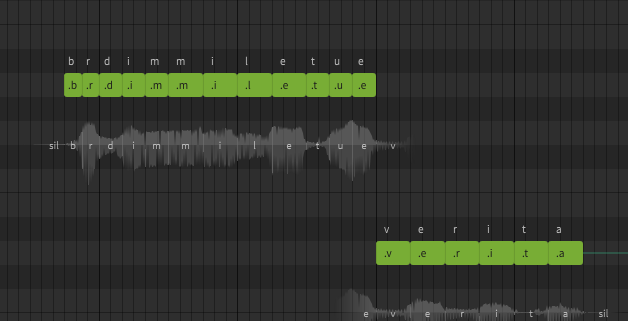
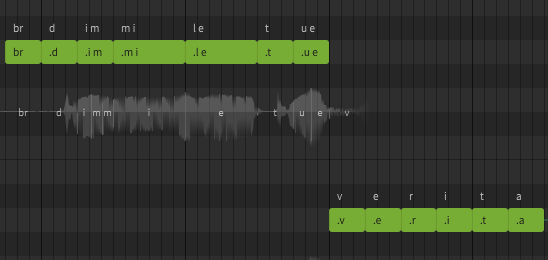
Updated README images

diff --git a/README.md b/README.md
@@ -96,6 +96,38 @@ into this:
 
 ![img_3.png](resources/img_3.png)
 
+
+Follows an example log
+
+>[Logger Thu Oct 24 09:30:42 2024] INFO  - OS: Windows
+> 
+>[Logger Thu Oct 24 09:30:43 2024] INFO  - Language: IT
+>
+>[Logger Thu Oct 24 09:30:43 2024] INFO  - Start processing rules
+>
+>[Logger Thu Oct 24 09:30:43 2024] INFO  - Open IPA rule file C:\Users\ferra\OneDrive\Documenti\Dreamtonics\Synthesizer V Studio\scripts\Utilities\languages\IT.dic
+>[Logger Thu Oct 24 09:30:43 2024] INFO  - Open dream rule file C:\Users\ferra\OneDrive\Documenti\Dreamtonics\Synthesizer V Studio\scripts\Utilities\languages\IT-dream.dic
+>
+>[Logger Thu Oct 24 09:30:43 2024] INFO  - End processing rules
+>
+>[Logger Thu Oct 24 09:30:43 2024] INFO  - Start processing notes
+>
+>[Logger Thu Oct 24 09:30:43 2024] INFO  - Lyric dim --> IPA: dim --> Dream: 1: {1: d 2: SPA 3: d } 2: {1: i m 2: CAN 3: im }
+>
+>[Logger Thu Oct 24 09:30:43 2024] INFO  - Lyric mi --> IPA: mi --> Dream: 1: {1: m i 2: CAN 3: mi }
+>
+>[Logger Thu Oct 24 09:30:43 2024] INFO  - Lyric le --> IPA: le --> Dream: 1: {1: l e 2: CAN 3: le }
+>
+>
+>[Logger Thu Oct 24 09:30:43 2024] INFO  - Lyric tue --> IPA: tʊe --> Dream: 1: {1: t 2: SPA 3: t } 2: {1: u e 2: CAN 3: ʊe }
+>
+>[Logger Thu Oct 24 09:30:43 2024] INFO  - Lyric ve --> IPA: ve --> Dream: 1: {1: v 2: ING 3: v } 2: {1: e 2: CAN 3: e }
+>
+>[Logger Thu Oct 24 09:30:43 2024] INFO  - Lyric ri --> IPA: ri --> Dream: 1: {1: r 2: SPA 3: r } 2: {1: i 2: CAN 3: i }
+>
+>[Logger Thu Oct 24 09:30:43 2024] INFO  - Lyric ta --> IPA: ta --> Dream: 1: {1: t 2: SPA 3: t } 2: {1: a 2: CAN 3: a }
+
+
 ## IMPORTANT NOTES
 The script evenly splits all words, processing them character by character, and replaces the lyrics with the necessary phonemes.  
 This requires subsequent work to regroup the syllables where possible and to fix any timing issues.  
